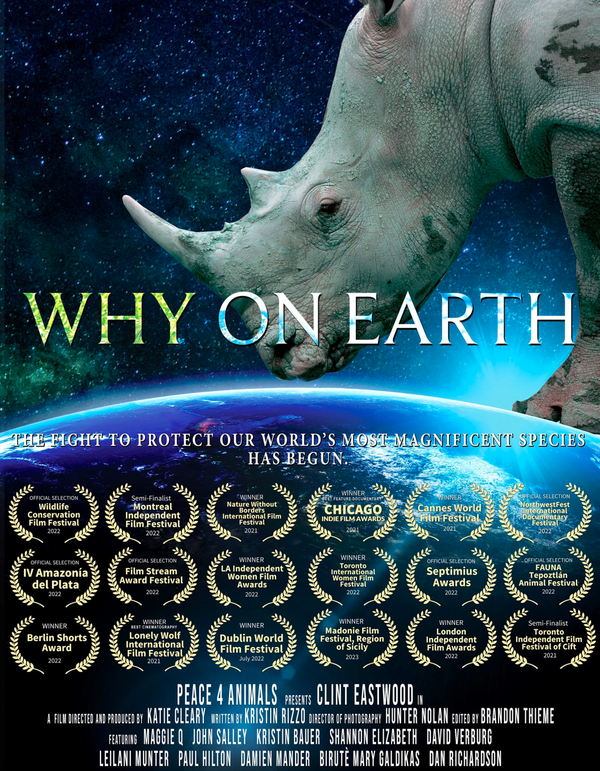
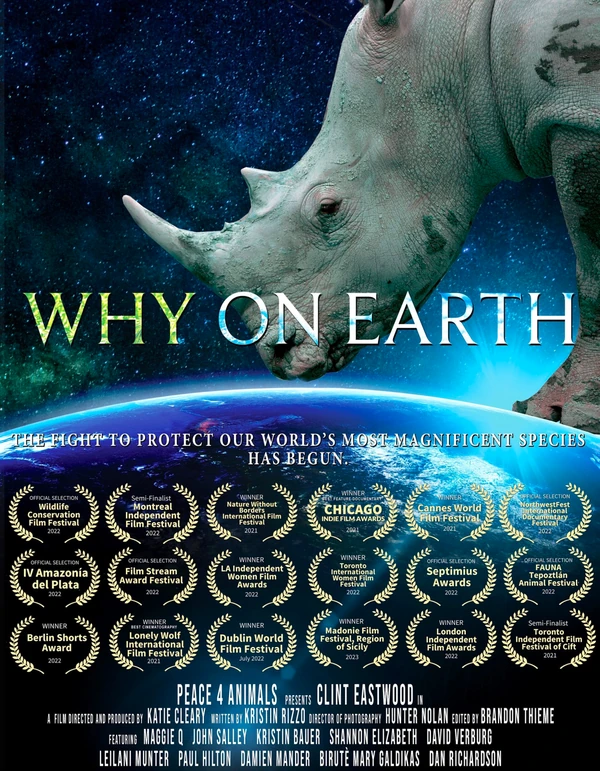
Optimize editorial WebP images flagged by Ahrefs

diff --git a/WORK-STATE.md b/WORK-STATE.md
@@ -114,3 +114,5 @@ The public repository retains both `dist/` for the Sites project and compiled ro
 2026-10-03 Feline article: /feline-blood-transfusion-compatibility.html is the permanent, indexable page for the existing cat blood compatibility and donor welfare material. Its source is content/pages/feline-blood-transfusion-compatibility.json and src/pages/feline-blood-transfusion-compatibility.mjs. The news.html#cats-blood-compatibility-oxyglobin anchor is retained as a short teaser with Read the article. The full text, original EveryCat screenshot, three Oxyglobin publications, ISFM guidance and 2024 donor study remain on the article. Historical product-specific findings do not establish BHOC safety or efficacy. Article metadata, social image, matching News breadcrumb, site search and sitemap are included. Keyword demand has not been checked; the three candidate topics are used only where they match the existing content. Generated-root synchronization now includes this page. Publication update count is 46.
 
 2026-10-03 Feline article layout correction: Archil requested a wider, compact format. The article now follows the 1160px content width used by Veterinary News, with a compact header, smaller heading and paragraph spacing, and side-by-side documentary image/context and source groups on desktop. These groups stack below 700px. Copy, original image, sources, permanent URL and SEO identities are preserved. Publication update count is 47. Desktop and 390px phone preview were visually checked; text wraps correctly, the original image loads, and there is no horizontal overflow.
+
+2026-10-17 Ahrefs image-size correction: Re-encoded the approved Why On Earth and Give Me Shelter full-size and 600px WebP assets at quality 90, keeping their existing URLs, dimensions, aspect ratios and complete compositions. The full-size files decreased from 2,271,540 to 571,724 bytes and from 1,498,900 to 243,934 bytes; card derivatives decreased from 693,132 to 187,722 bytes and from 287,950 to 68,604 bytes. Updated the provenance descriptions and SHA-256 hashes to identify the lossy web encodings accurately. Side-by-side visual inspection retained readable artwork text and intact compositions. The existing build, site validation and forbidden-link checks passed. No HTML/CSS layout or editorial copy changes were needed.
